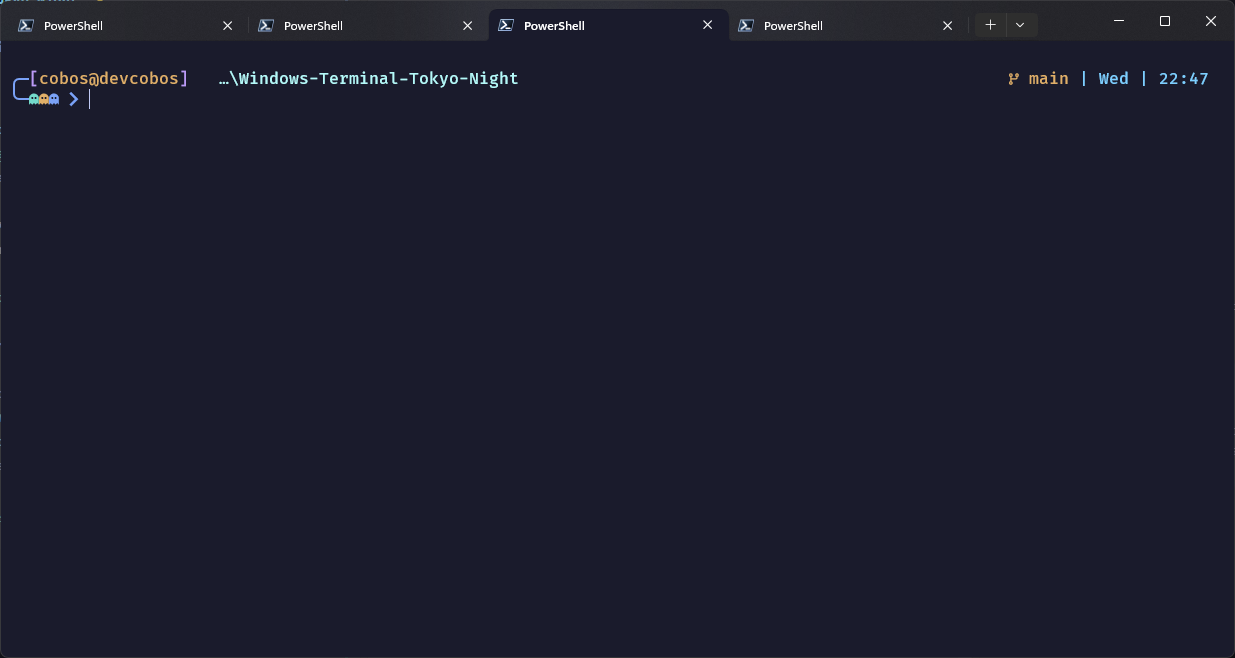
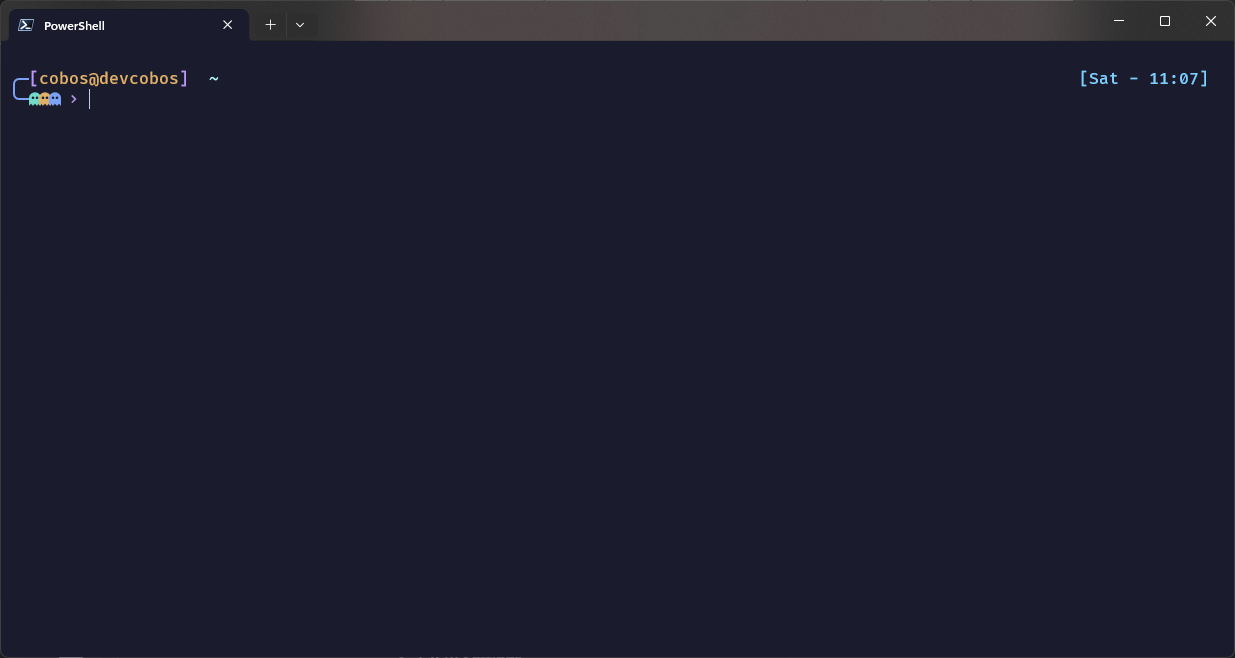
Remove Oh My Posh

diff --git a/README.md b/README.md
@@ -1,6 +1,6 @@
 # Windows Terminal Tokyo Night 🌙
 
-This repository contains a custom **Windows Terminal** theme and a personalized prompt configuration. You can choose to use either **Starship** or **Oh My Posh**  to bring the Tokyo Night aesthetic to your shell.
+This project provides a fully customized Windows Terminal setup featuring a Tokyo Night theme and personalized configurations for a seamless and visually appealing command-line experience. It includes instructions for installing and configuring a compatible font, color schemes, and a Starship prompt.
 
 ![Preview](.github/assets/terminal-preview.png)
 
@@ -9,7 +9,6 @@ This repository contains a custom **Windows Terminal** theme and a personalized 
 - [Initial Setup](#initial-setup)
 - [Installation Tokyo Night Theme](#installation-tokyo-night-theme)
 - [Install Starship](#install-starship)
-- [Install Oh My Posh](#install-oh-my-posh)
 
 ## Initial Setup
 
@@ -59,58 +58,19 @@ winget install --id Starship.Starship
 
 ### Install a Compatible Font
 
-You need a Nerd Font installed and enabled in your terminal to display icons and special symbols. 
+You need a Nerd Font installed and enabled in your terminal to display icons and special symbols.
 
-1. Download a `FiraCode Nerd Font` font from:  [Nerd Fonts - Font Downloads](https://www.nerdfonts.com/font-downloads)
+1. Download a `FiraCode Nerd Font` font from: [Nerd Fonts - Font Downloads](https://www.nerdfonts.com/font-downloads)
 2. Install the font and open the terminal.
 3. Go to `Settings → Profiles → Defaults → Appearance`.
-4. Select the font **FiraCode Nerd Font Mono** and set the thickness to **Medium**.
+4. Select the font **FiraCode Nerd Font Mono** and set the font weigth to **Medium**.
 5. Save the changes.
    ![Set font default](.github/assets/set_font_fira_code.png)
 
-### Configure your shell to use Oh My Posh custom prompt
+### Configure your shell to use StartShip custom prompt
 
 1. Download this repository.
 2. Navigate to the `Starship` folder.
 3. Run the `install.ps1` script.
 4. Once installed, restart your terminal.
    ![Finished](.github/assets/prompt_starship.png)
-
-## Install Oh My Posh
-
-[Official Documentation](https://ohmyposh.dev/docs/installation/windows)
-
-### Using winget to install
-
-```
-winget install JanDeDobbeleer.OhMyPosh -s winget
-```
-
-> **Note:** It's recommended to restart the terminal to reload the PATH. If the `oh-my-posh` command isn't recognized, you can either re-run the installer or add it manually to your PATH:
->
-> ```
-> $env:Path += ";C:\Users\<your_user>\AppData\Local\Programs\oh-my-posh\bin"
-> ```
-
-### Install a compatible font
-
-1. Run the following command in PowerShell:
-   ```
-   oh-my-posh font install
-   ```
-2. Select the `FiraCode` font.
-   ![Select Fira Code](.github/assets/install_fira_code.png)
-3. Restart the terminal.
-4. Go to `Settings → Profiles → Defaults → Appearance`.
-5. Select the font **FiraCode Nerd Font Mono** and set the thickness to **Medium**.
-6. Save the changes.
-   ![Set font default](.github/assets/set_font_fira_code.png)
-
-### Configure your shell to use Oh My Posh custom prompt
-
-1. Download this repository.
-2. Navigate to the `Oh My Posh` folder.
-3. Run the `install.ps1` script.
-4. Once installed, restart your terminal.
-
-   ![Finished](.github/assets/script_prompt.png)
